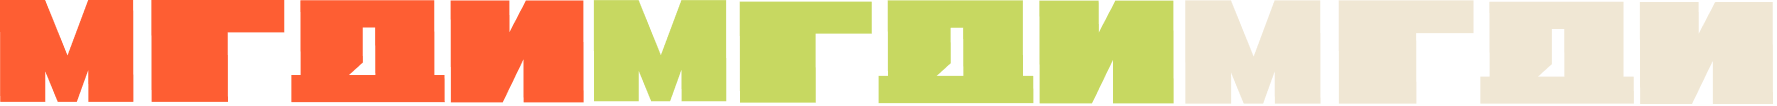
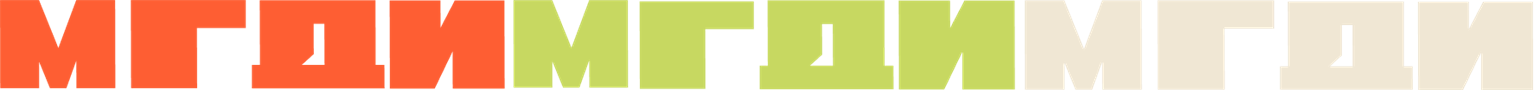
Упорядочены секции по порядку на сайте

diff --git a/src/components/sections/06FinalSection.vue b/src/components/sections/06FinalSection.vue
@@ -1,0 +1,209 @@
+<script setup>
+import mgdiPatternImage from '../../assets/mgdi-pattern-strip.png'
+
+const rowDurations = [55, 68, 60, 75]
+const patternRows = Array.from({ length: 7 }, (_, index) => ({
+  id: `final-row-${index + 1}`,
+  reverse: index % 2 === 1,
+  duration: rowDurations[index % rowDurations.length] + Math.floor(index / 4) * 4
+}))
+</script>
+
+<template>
+  <section id="final" class="final section-block">
+    <div class="final-pattern" aria-hidden="true">
+      <div
+        v-for="row in patternRows"
+        :key="row.id"
+        class="final-row"
+        :class="{ 'is-reverse': row.reverse }"
+        :style="{ '--final-duration': `${row.duration}s` }"
+      >
+        <div class="final-track">
+          <img class="final-strip" :src="mgdiPatternImage" alt="" />
+          <img class="final-strip" :src="mgdiPatternImage" alt="" />
+        </div>
+      </div>
+    </div>
+
+    <div class="container final-shell">
+      <p class="section-kicker">Финал</p>
+      <h2 class="final-title">
+        Присоединяйся к движению.
+        <span class="accent-lime">Служим Богу</span>
+        вместе.
+      </h2>
+      <p class="final-text">
+        Мы открыты для участников, наставников и партнеров. Если хотите запускать идеи,
+        которые несут пользу людям и городу, вы в правильном месте.
+      </p>
+      <div class="final-actions">
+        <a class="btn btn-primary" href="#">Подать заявку</a>
+        <a class="btn btn-secondary" href="#">Стать партнером</a>
+      </div>
+    </div>
+  </section>
+</template>
+
+<style scoped>
+.final {
+  position: relative;
+  overflow: hidden;
+  isolation: isolate;
+  color: var(--white);
+  background:
+    radial-gradient(circle at 78% 18%, rgba(191, 211, 90, 0.22), rgba(191, 211, 90, 0) 34%),
+    radial-gradient(circle at 16% 78%, rgba(255, 98, 51, 0.2), rgba(255, 98, 51, 0) 34%),
+    linear-gradient(148deg, #0a2b8f 0%, #1146d8 36%, #0a2a8a 100%);
+}
+
+.final::before {
+  content: '';
+  position: absolute;
+  inset: 0;
+  z-index: 2;
+  pointer-events: none;
+  background:
+    linear-gradient(90deg, rgba(255, 255, 255, 0.06) 0 1px, transparent 1px 100%),
+    linear-gradient(180deg, rgba(255, 255, 255, 0.04) 0 1px, transparent 1px 100%);
+  background-size: 120px 120px;
+  opacity: 0.25;
+}
+
+.final-pattern {
+  --final-shift: 1540px;
+  --final-steps: 1540;
+  position: absolute;
+  inset: 0;
+  z-index: 1;
+  display: flex;
+  flex-direction: column;
+  gap: clamp(6px, 0.6vw, 12px);
+  padding: clamp(10px, 1.4vw, 20px) 0;
+  pointer-events: none;
+  overflow: hidden;
+}
+
+.final-row {
+  flex: 1 1 0;
+  min-height: 0;
+  overflow: hidden;
+  white-space: nowrap;
+  display: flex;
+  align-items: center;
+}
+
+.final-track {
+  width: max-content;
+  display: flex;
+  align-items: center;
+  gap: 0;
+  will-change: transform;
+  transform: translate3d(0, 0, 0);
+  animation-name: final-slide-left;
+  animation-duration: var(--final-duration, 60s);
+  animation-timing-function: steps(var(--final-steps), end);
+  animation-iteration-count: infinite;
+}
+
+.final-row.is-reverse .final-track {
+  animation-name: final-slide-right;
+}
+
+.final-strip {
+  flex: 0 0 auto;
+  display: block;
+  width: auto;
+  min-width: 0;
+  height: 90px;
+  margin-right: 0;
+  opacity: 0.22;
+  filter: saturate(0.92) brightness(0.9);
+  image-rendering: auto;
+  user-select: none;
+}
+
+.final-shell {
+  position: relative;
+  z-index: 3;
+}
+
+.final-title {
+  margin: 0;
+  max-width: 960px;
+  font-family: 'Dela Gothic One', sans-serif;
+  font-weight: 400;
+  letter-spacing: -0.02em;
+  line-height: 0.94;
+  text-transform: uppercase;
+  font-size: clamp(2.1rem, 6vw, 5.1rem);
+}
+
+.final-text {
+  margin: 18px 0 30px;
+  max-width: 680px;
+  color: rgba(255, 255, 255, 0.84);
+  font-size: 1.02rem;
+  line-height: 1.56;
+}
+
+.final-actions {
+  display: flex;
+  gap: 12px;
+  flex-wrap: wrap;
+}
+
+@keyframes final-slide-left {
+  from {
+    transform: translate3d(0, 0, 0);
+  }
+
+  to {
+    transform: translate3d(calc(-1 * var(--final-shift)), 0, 0);
+  }
+}
+
+@keyframes final-slide-right {
+  from {
+    transform: translate3d(calc(-1 * var(--final-shift)), 0, 0);
+  }
+
+  to {
+    transform: translate3d(0, 0, 0);
+  }
+}
+
+@media (max-width: 1200px) {
+  .final-row:nth-child(n + 7) {
+    display: none;
+  }
+}
+
+@media (max-width: 900px) {
+  .final-pattern {
+    --final-shift: 770px;
+    --final-steps: 770;
+    padding: 10px 0;
+    gap: 6px;
+  }
+
+  .final-row:nth-child(n + 5) {
+    display: none;
+  }
+
+  .final-strip {
+    height: 45px;
+  }
+
+  .final-text {
+    margin-bottom: 24px;
+  }
+}
+
+@media (prefers-reduced-motion: reduce) {
+  .final-track {
+    animation: none;
+  }
+}
+</style>
+

diff --git a/src/components/sections/03DavvideoSection.vue b/src/components/sections/03DavvideoSection.vue
@@ -154,6 +154,8 @@ onBeforeUnmount(() => {
 }
 
 .mgdi-pattern {
+  --mgdi-shift: 1540px;
+  --mgdi-steps: 1540;
   position: absolute;
   inset: 0;
   z-index: 1;
@@ -181,7 +183,10 @@ onBeforeUnmount(() => {
   align-items: center;
   will-change: transform;
   transform: translate3d(0, 0, 0);
-  animation: mgdi-slide-left var(--mgdi-duration, 60s) linear infinite;
+  animation-name: mgdi-slide-left;
+  animation-duration: var(--mgdi-duration, 60s);
+  animation-timing-function: steps(var(--mgdi-steps), end);
+  animation-iteration-count: infinite;
 }
 
 .mgdi-row.is-reverse .mgdi-track {
@@ -193,10 +198,11 @@ onBeforeUnmount(() => {
   display: block;
   width: auto;
   min-width: 0;
-  height: 106px;
+  height: 90px;
   margin-right: 0;
-  opacity: 0.4;
-  filter: saturate(0.98) brightness(0.96);
+  opacity: 0.22;
+  filter: saturate(0.92) brightness(0.9);
+  image-rendering: auto;
   user-select: none;
 }
 
@@ -444,21 +450,21 @@ onBeforeUnmount(() => {
 
 @keyframes mgdi-slide-left {
   from {
-    transform: translateX(0);
+    transform: translate3d(0, 0, 0);
   }
 
   to {
-    transform: translateX(-50%);
+    transform: translate3d(calc(-1 * var(--mgdi-shift)), 0, 0);
   }
 }
 
 @keyframes mgdi-slide-right {
   from {
-    transform: translateX(-50%);
+    transform: translate3d(calc(-1 * var(--mgdi-shift)), 0, 0);
   }
 
   to {
-    transform: translateX(0);
+    transform: translate3d(0, 0, 0);
   }
 }
 
@@ -471,6 +477,8 @@ onBeforeUnmount(() => {
 
 @media (max-width: 900px) {
   .mgdi-pattern {
+    --mgdi-shift: 770px;
+    --mgdi-steps: 770;
     padding: 10px 0;
     gap: 6px;
   }
@@ -480,7 +488,7 @@ onBeforeUnmount(() => {
   }
 
   .mgdi-strip {
-    height: 53px;
+    height: 45px;
   }
 
   .life-lead {
@@ -551,4 +559,6 @@ onBeforeUnmount(() => {
   }
 }
 </style>
+
+
 

diff --git a/src/pages/HomePage.vue b/src/pages/HomePage.vue
@@ -1,12 +1,12 @@
 <script setup>
 import SiteHeader from '../components/layout/SiteHeader.vue'
 import SiteFooter from '../components/layout/SiteFooter.vue'
-import PrivVideoSection from '../components/sections/PrivVideoSection.vue'
-import Historyproect2Section from '../components/sections/Historyproect2Section.vue'
-import ThreeDavvideoSection from '../components/sections/3davvideoSection.vue'
-import Geogrf4Section from '../components/sections/4geogrfSection.vue'
-import MomentsSection from '../components/sections/MomentsSection.vue'
-import FinalSection from '../components/sections/FinalSection.vue'
+import PrivVideoSection from '../components/sections/01PrivVideoSection.vue'
+import Historyproect2Section from '../components/sections/02Historyproect2Section.vue'
+import ThreeDavvideoSection from '../components/sections/03DavvideoSection.vue'
+import Geogrf4Section from '../components/sections/04GeogrfSection.vue'
+import MomentsSection from '../components/sections/05MomentsSection.vue'
+import FinalSection from '../components/sections/06FinalSection.vue'
 import { useScrollEffects } from '../composables/useScrollEffects'
 import {
   galleryCards,
